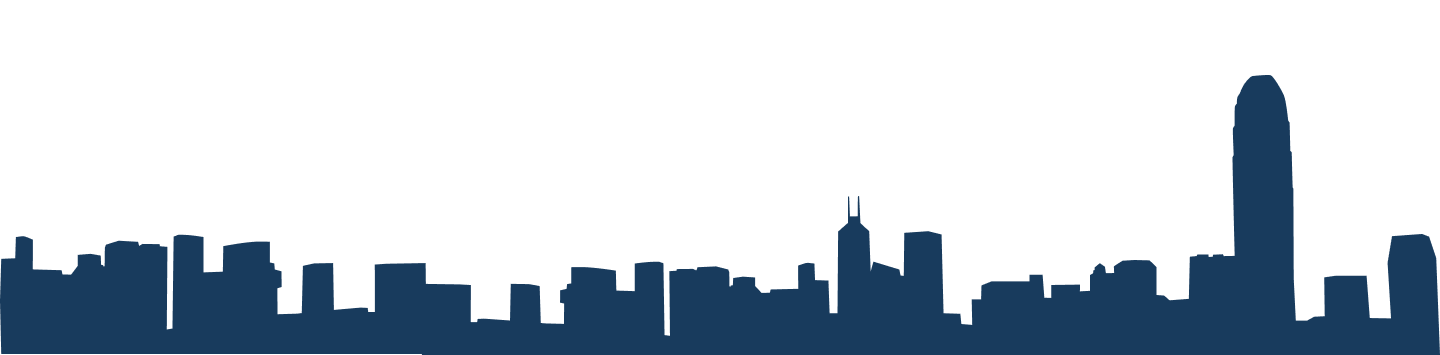
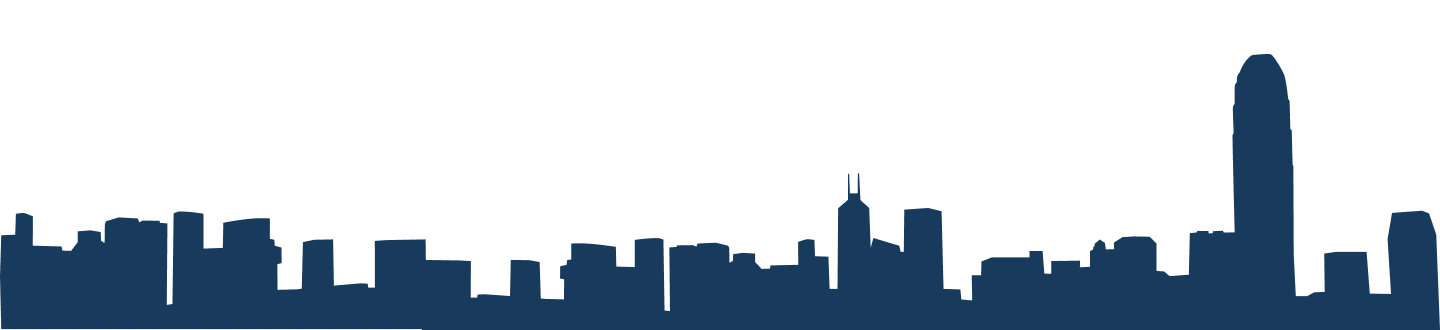
GH-1: Fix bg image object fit

diff --git a/src/components/JoinUsSection.js b/src/components/JoinUsSection.js
@@ -10,7 +10,7 @@ const JoinUsSection = () => {
     >
     <Image
       src={process.env.PUBLIC_URL + "images/join_us_bg.png"}
-      objectFit="cover"
+      objectFit="contain"
       objectPosition= "center bottom"
       width="100%"
       height="100%"
@@ -19,7 +19,6 @@ const JoinUsSection = () => {
     <VStack
       textColor="#FFFFFF"
       w="100%"
-      py="6"
       gap={10}
       position="absolute" 
       top="50%" 
@@ -57,6 +56,8 @@ const JoinUsSection = () => {
         letterSpacing="0.12rem"
         textAlign="center"
         borderRadius="0.625rem"
+        height="3.125rem"
+        width="16.25rem"
         as={Link}
         target="_blank"
         href="https://forms.gle/UoAwhzPYqgkUsdcf6"
